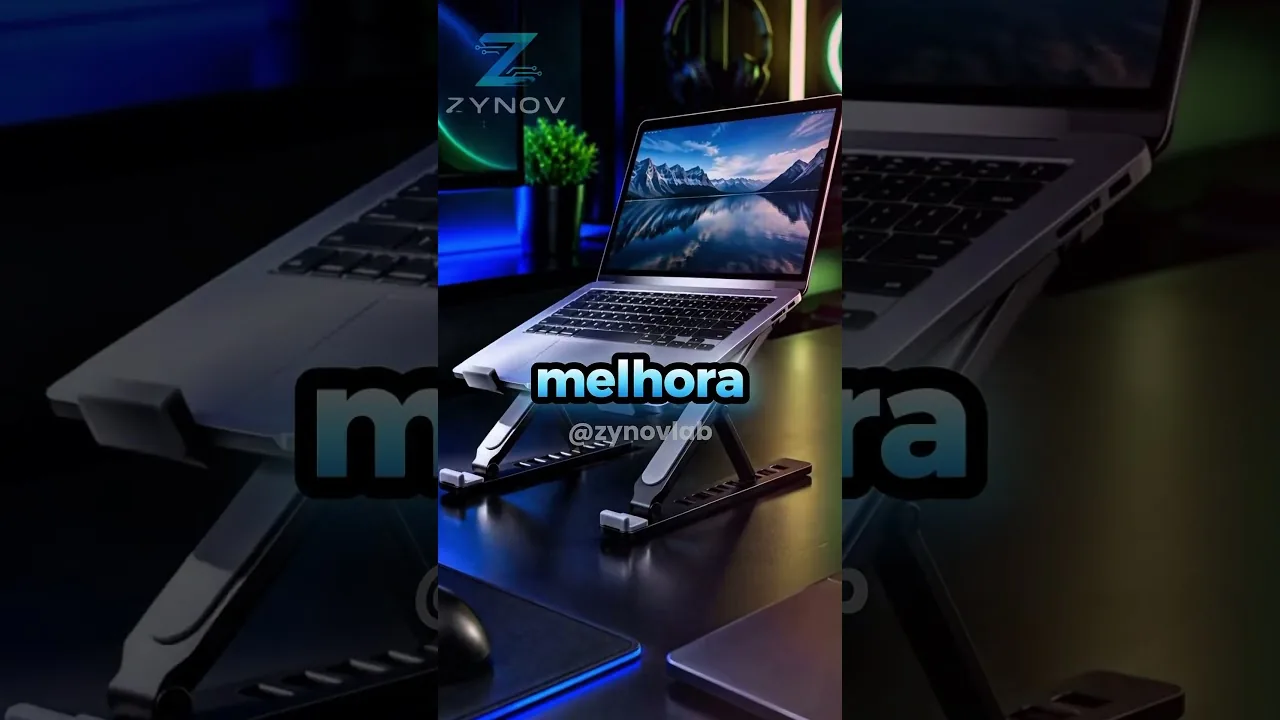
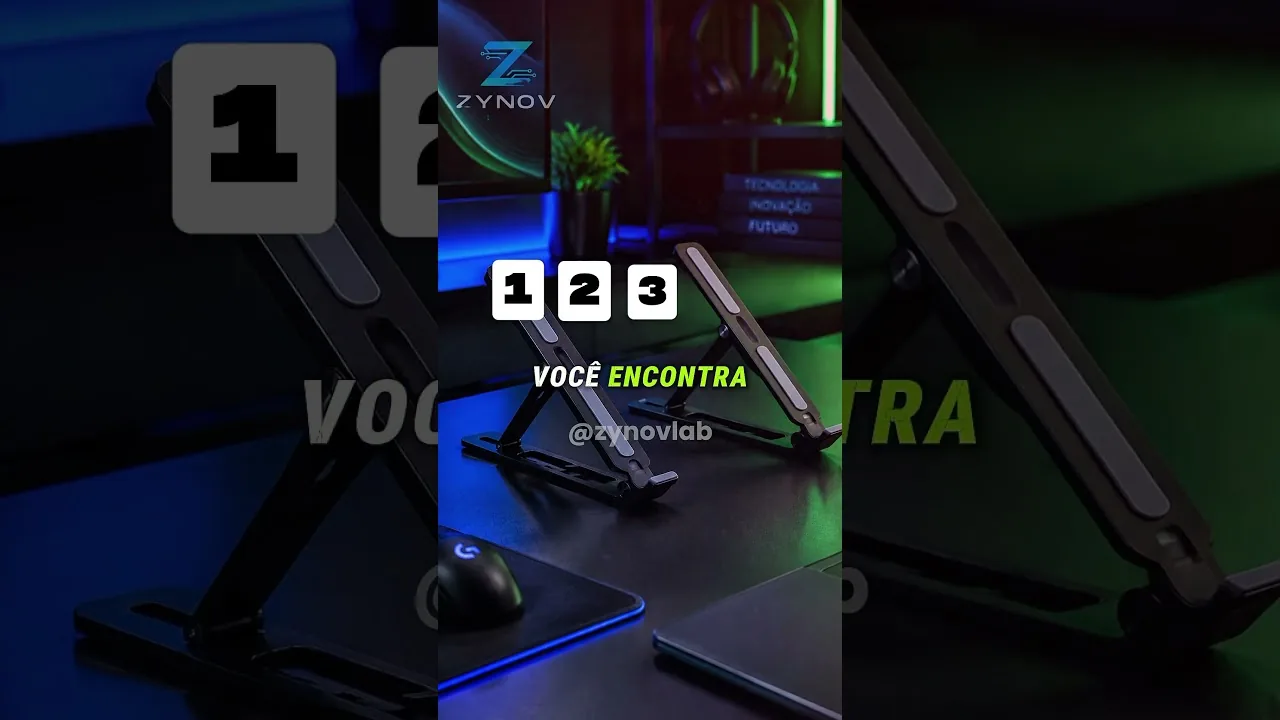
Publica contato, domínio e a preview do comercial Zynov Lab.
Inclui WhatsApp, e-mail e o ícone do 99Freelas, aponta o site para o domínio da Vercel e troca o vídeo e a thumbnail do Comercial Zynov Lab.

diff --git a/js/main.js b/js/main.js
@@ -48,12 +48,29 @@
   });
 
   /* ---------- Contato / footer links ---------- */
+  const brandIcons = {
+    freelas99: {
+      src: "assets/icons/99freelas.webp",
+      srcSm: "assets/icons/99freelas-sm.webp",
+      width: 20,
+      height: 20,
+      alt: "Logo 99Freelas"
+    }
+  };
+
   const contactIcons = {
     whatsapp: `<svg viewBox="0 0 24 24" fill="currentColor" aria-hidden="true"><path d="M12.04 2C6.58 2 2.15 6.4 2.15 11.84c0 1.96.55 3.8 1.5 5.38L2 22l4.95-1.6a9.86 9.86 0 0 0 5.09 1.4h.01c5.46 0 9.89-4.4 9.89-9.84C21.94 6.4 17.5 2 12.04 2zm5.75 14.07c-.24.67-1.4 1.23-1.93 1.31-.5.07-1.13.1-1.82-.11-.42-.13-.96-.31-1.65-.6-2.9-1.26-4.79-4.2-4.93-4.4-.14-.19-1.17-1.56-1.17-2.98 0-1.42.74-2.12 1-2.41.26-.29.57-.36.76-.36h.55c.17 0 .4-.07.63.48.24.56.82 2 .89 2.14.07.14.12.31.02.5-.1.19-.14.31-.29.48-.14.17-.3.37-.43.5-.14.14-.29.29-.12.56.17.28.74 1.22 1.59 1.97 1.1.97 2.02 1.27 2.3 1.41.29.14.45.12.62-.07.17-.19.71-.83.9-1.11.19-.28.38-.24.64-.14.26.1 1.65.78 1.93.92.28.14.47.21.54.33.07.12.07.69-.17 1.36z"/></svg>`,
     email: `<svg viewBox="0 0 24 24" fill="none" stroke="currentColor" stroke-width="1.7" aria-hidden="true"><rect x="3" y="5" width="18" height="14" rx="2"/><path d="m3 7 9 7 9-7"/></svg>`,
-    freelas99: `<svg viewBox="0 0 24 24" fill="none" stroke="currentColor" stroke-width="1.7" aria-hidden="true"><circle cx="12" cy="8" r="3.5"/><path d="M5 19.5c1.5-3.2 3.8-4.8 7-4.8s5.5 1.6 7 4.8"/></svg>`,
     workana: `<svg viewBox="0 0 24 24" fill="none" stroke="currentColor" stroke-width="1.7" aria-hidden="true"><path d="M4 17 8.5 7l3.5 7 3.5-7L20 17"/><path d="M6.5 13h4M13.5 13h4"/></svg>`
   };
+
+  function brandIconMarkup(key, { small = false } = {}) {
+    const icon = brandIcons[key];
+    if (!icon) return contactIcons[key] || "";
+    const src = small ? icon.srcSm : icon.src;
+    const size = small ? 16 : icon.width;
+    return `<img class="brand-icon" src="${src}" alt="" width="${size}" height="${size}" loading="lazy" decoding="async" aria-hidden="true" />`;
+  }
 
   function renderContactLinks() {
     const container = document.getElementById("contact-links");
@@ -72,10 +89,11 @@
 
     items.forEach(({ key, label, href }) => {
       const hasLink = Boolean(href && String(href).trim());
+      const iconHtml = brandIconMarkup(key);
 
       const contactBtn = document.createElement(hasLink ? "a" : "span");
-      contactBtn.className = `contact-link${hasLink ? "" : " is-disabled"}`;
-      contactBtn.innerHTML = `${contactIcons[key] || ""}<span>${label}${hasLink ? "" : " (em breve)"}</span>`;
+      contactBtn.className = `contact-link contact-link--${key}${hasLink ? "" : " is-disabled"}`;
+      contactBtn.innerHTML = `${iconHtml}<span>${label}${hasLink ? "" : " (em breve)"}</span>`;
       if (hasLink) {
         contactBtn.href = href;
         contactBtn.target = href.startsWith("mailto:") || href.startsWith("https://wa.me") ? "_self" : "_blank";
@@ -87,9 +105,15 @@
       container.appendChild(contactBtn);
 
       if (hasLink && footerSocial) {
+        // Rodapé: apenas ícones (WhatsApp, e-mail, 99Freelas)
+        if (key === "workana") return;
+
         const foot = document.createElement("a");
+        foot.className = `footer-social-link footer-social-link--${key}`;
         foot.href = href;
-        foot.textContent = label;
+        foot.setAttribute("aria-label", label);
+        foot.title = label;
+        foot.innerHTML = brandIconMarkup(key, { small: false });
         if (!href.startsWith("mailto:") && !href.startsWith("https://wa.me")) {
           foot.target = "_blank";
           foot.rel = "noopener noreferrer";

diff --git a/index.html b/index.html
@@ -7,21 +7,21 @@
   <meta name="description" content="Conheça meu portfólio de edição de vídeos para Reels, TikTok, YouTube Shorts e publicidade digital. Edições criativas e profissionais." />
   <meta name="author" content="Gabriel" />
   <meta name="robots" content="index, follow" />
-  <link rel="canonical" href="https://SEU-DOMINIO.com/" />
+  <link rel="canonical" href="https://gabrieleditorvideo.vercel.app/" />
 
   <!-- Open Graph -->
   <meta property="og:type" content="website" />
   <meta property="og:locale" content="pt_BR" />
   <meta property="og:title" content="Editor de Vídeos para Reels, Shorts e YouTube | Portfólio" />
   <meta property="og:description" content="Conheça meu portfólio de edição de vídeos para Reels, TikTok, YouTube Shorts e publicidade digital. Edições criativas e profissionais." />
-  <meta property="og:url" content="https://SEU-DOMINIO.com/" />
-  <meta property="og:image" content="https://SEU-DOMINIO.com/assets/images/perfil.webp" />
+  <meta property="og:url" content="https://gabrieleditorvideo.vercel.app/" />
+  <meta property="og:image" content="https://gabrieleditorvideo.vercel.app/assets/images/perfil.webp" />
 
   <!-- Twitter Card -->
   <meta name="twitter:card" content="summary_large_image" />
   <meta name="twitter:title" content="Editor de Vídeos para Reels, Shorts e YouTube | Portfólio" />
   <meta name="twitter:description" content="Conheça meu portfólio de edição de vídeos para Reels, TikTok, YouTube Shorts e publicidade digital." />
-  <meta name="twitter:image" content="https://SEU-DOMINIO.com/assets/images/perfil.webp" />
+  <meta name="twitter:image" content="https://gabrieleditorvideo.vercel.app/assets/images/perfil.webp" />
 
   <link rel="icon" type="image/svg+xml" href="./favicon.svg" />
   <link rel="apple-touch-icon" href="./favicon.svg" />
@@ -43,8 +43,8 @@
     "name": "Gabriel",
     "jobTitle": "Editor de Vídeos",
     "description": "Editor de vídeos para Reels, TikTok, YouTube Shorts e conteúdos comerciais.",
-    "url": "https://SEU-DOMINIO.com/",
-    "image": "https://SEU-DOMINIO.com/assets/images/perfil.webp",
+    "url": "https://gabrieleditorvideo.vercel.app/",
+    "image": "https://gabrieleditorvideo.vercel.app/assets/images/perfil.webp",
     "sameAs": [
       "https://www.99freelas.com.br/user/Gabriel-programmer"
     ],
@@ -274,7 +274,7 @@
         <p class="section-eyebrow">Contato</p>
         <h2 id="contato-title" class="section-title">Vamos transformar sua ideia em um vídeo?</h2>
         <p class="section-desc">
-          Me chame pelo canal que preferir. Links de WhatsApp e e-mail serão adicionados assim que estiverem disponíveis.
+          Me chame pelo canal que preferir — WhatsApp, e-mail ou pelo meu perfil no 99Freelas.
         </p>
 
         <div class="contact-links" id="contact-links">

diff --git a/js/projects.js b/js/projects.js
@@ -13,16 +13,14 @@ const siteConfig = {
   name: "Gabriel",
   brand: "Gabriel.Edit",
   /** Substitua pelo domínio real após publicar (também em index.html, robots.txt e sitemap.xml) */
-  canonicalUrl: "https://SEU-DOMINIO.com/",
+  canonicalUrl: "https://gabrieleditorvideo.vercel.app/",
   contact: {
-    /** Ex.: https://wa.me/5511999999999 */
-    whatsapp: "",
-    /** Ex.: mailto:seuemail@exemplo.com */
-    email: "",
+    whatsapp: "https://wa.me/5561995815904",
+    email: "mailto:gabriel8webprogrammer@gmail.com",
     freelas99: "https://www.99freelas.com.br/user/Gabriel-programmer",
     /** Preencha quando tiver o perfil */
-    workana: ""
-  }
+    workana: "",
+  },
 };
 
 /**
@@ -36,7 +34,7 @@ const categories = [
   "Publicidade e Produtos",
   "Cortes de Podcasts",
   "Conteúdo para YouTube",
-  "Outros Projetos"
+  "Outros Projetos",
 ];
 
 /**
@@ -60,39 +58,36 @@ const projects = [
     id: 1,
     title: "Apenas Comece",
     category: "Vídeos Motivacionais",
-    description:
-      "Reels motivacional com ritmo dinâmico, legendas e trilha.",
+    description: "Reels motivacional com ritmo dinâmico, legendas e trilha.",
     thumbnail: "assets/images/apenas-comece.webp",
     videoType: "youtube",
     videoId: "IJM13g-7gwo",
     orientation: "vertical",
     tools: ["CapCut", "Legendas"],
-    featured: true
+    featured: true,
   },
   {
     id: 2,
     title: "Motivacional-corte",
     category: "Reels e Shorts",
-    description:
-      "Edição com legendas animadas e cortes precisos.",
+    description: "Edição com legendas animadas e cortes precisos.",
     thumbnail: "assets/images/motivacional-corte.webp",
     videoType: "youtube",
     videoId: "y9C8157rPwA",
     orientation: "vertical",
     tools: ["CapCut", "Legendas animadas"],
-    featured: true
+    featured: true,
   },
   {
     id: 3,
     title: "Comercial Zynov Lab",
     category: "Publicidade e Produtos",
-    description:
-      "Publicidade de produto com recursos de IA.",
+    description: "Publicidade de produto com recursos de IA.",
     thumbnail: "assets/images/comercial-zynov-lab.webp",
     videoType: "youtube",
-    videoId: "2p4vzvvpxj8",
+    videoId: "IoAEBwfWg74",
     orientation: "horizontal",
     tools: ["CapCut", "Inteligência Artificial"],
-    featured: true
-  }
+    featured: true,
+  },
 ];

diff --git a/css/style.css b/css/style.css
@@ -508,22 +508,68 @@ h3 {
 .footer-social {
   display: flex;
   flex-wrap: wrap;
-  gap: 0.75rem;
+  align-items: center;
+  gap: 0.65rem;
 }
 
 .footer-social a {
-  color: var(--text-muted);
-  font-size: 0.9rem;
-  padding: 0.4rem 0.75rem;
-  border: 1px solid var(--border);
-  border-radius: 999px;
-  transition: color 0.2s, border-color 0.2s, background 0.2s;
+  display: inline-grid;
+  place-items: center;
+  width: 42px;
+  height: 42px;
+  padding: 0;
+  border: 1px solid transparent;
+  border-radius: 12px;
+  transition: transform 0.2s, background 0.2s, border-color 0.2s, box-shadow 0.2s;
 }
 
 .footer-social a:hover {
-  color: var(--text);
-  border-color: var(--border-strong);
-  background: var(--bg-elevated);
+  transform: translateY(-2px);
+}
+
+.footer-social a svg {
+  width: 22px;
+  height: 22px;
+}
+
+.footer-social .brand-icon {
+  width: 22px;
+  height: 22px;
+  border-radius: 6px;
+  object-fit: cover;
+  flex-shrink: 0;
+}
+
+.footer-social-link--whatsapp {
+  color: #22c55e;
+  background: rgba(34, 197, 94, 0.12);
+  border-color: rgba(34, 197, 94, 0.28);
+}
+
+.footer-social-link--whatsapp:hover {
+  background: rgba(34, 197, 94, 0.2);
+  box-shadow: 0 8px 20px rgba(34, 197, 94, 0.18);
+}
+
+.footer-social-link--email {
+  color: #3b82f6;
+  background: rgba(59, 130, 246, 0.12);
+  border-color: rgba(59, 130, 246, 0.28);
+}
+
+.footer-social-link--email:hover {
+  background: rgba(59, 130, 246, 0.2);
+  box-shadow: 0 8px 20px rgba(59, 130, 246, 0.18);
+}
+
+.footer-social-link--freelas99 {
+  background: rgba(0, 174, 239, 0.1);
+  border-color: rgba(0, 174, 239, 0.28);
+}
+
+.footer-social-link--freelas99:hover {
+  background: rgba(0, 174, 239, 0.18);
+  box-shadow: 0 8px 20px rgba(0, 174, 239, 0.16);
 }
 
 .footer-copy {

diff --git a/css/components.css b/css/components.css
@@ -450,10 +450,21 @@
   pointer-events: none;
 }
 
-.contact-link svg {
-  width: 18px;
-  height: 18px;
+.contact-link svg,
+.contact-link .brand-icon {
+  width: 20px;
+  height: 20px;
   flex-shrink: 0;
+}
+
+.contact-link .brand-icon {
+  border-radius: 6px;
+  object-fit: cover;
+}
+
+.contact-link--freelas99:hover {
+  border-color: rgba(0, 174, 239, 0.55);
+  background: rgba(0, 174, 239, 0.12);
 }
 
 /* Video modal */

diff --git a/README.md b/README.md
@@ -82,7 +82,7 @@ Em `js/projects.js`, objeto `siteConfig.contact`:
 | `freelas99` | já preenchido                                |
 | `workana`   | URL do perfil quando disponível              |
 
-Após publicar, substitua `https://SEU-DOMINIO.com/` em:
+Após publicar, substitua `https://gabrieleditorvideo.vercel.app/` em:
 
 - `index.html` (canonical, Open Graph, Twitter, JSON-LD)
 - `robots.txt`
